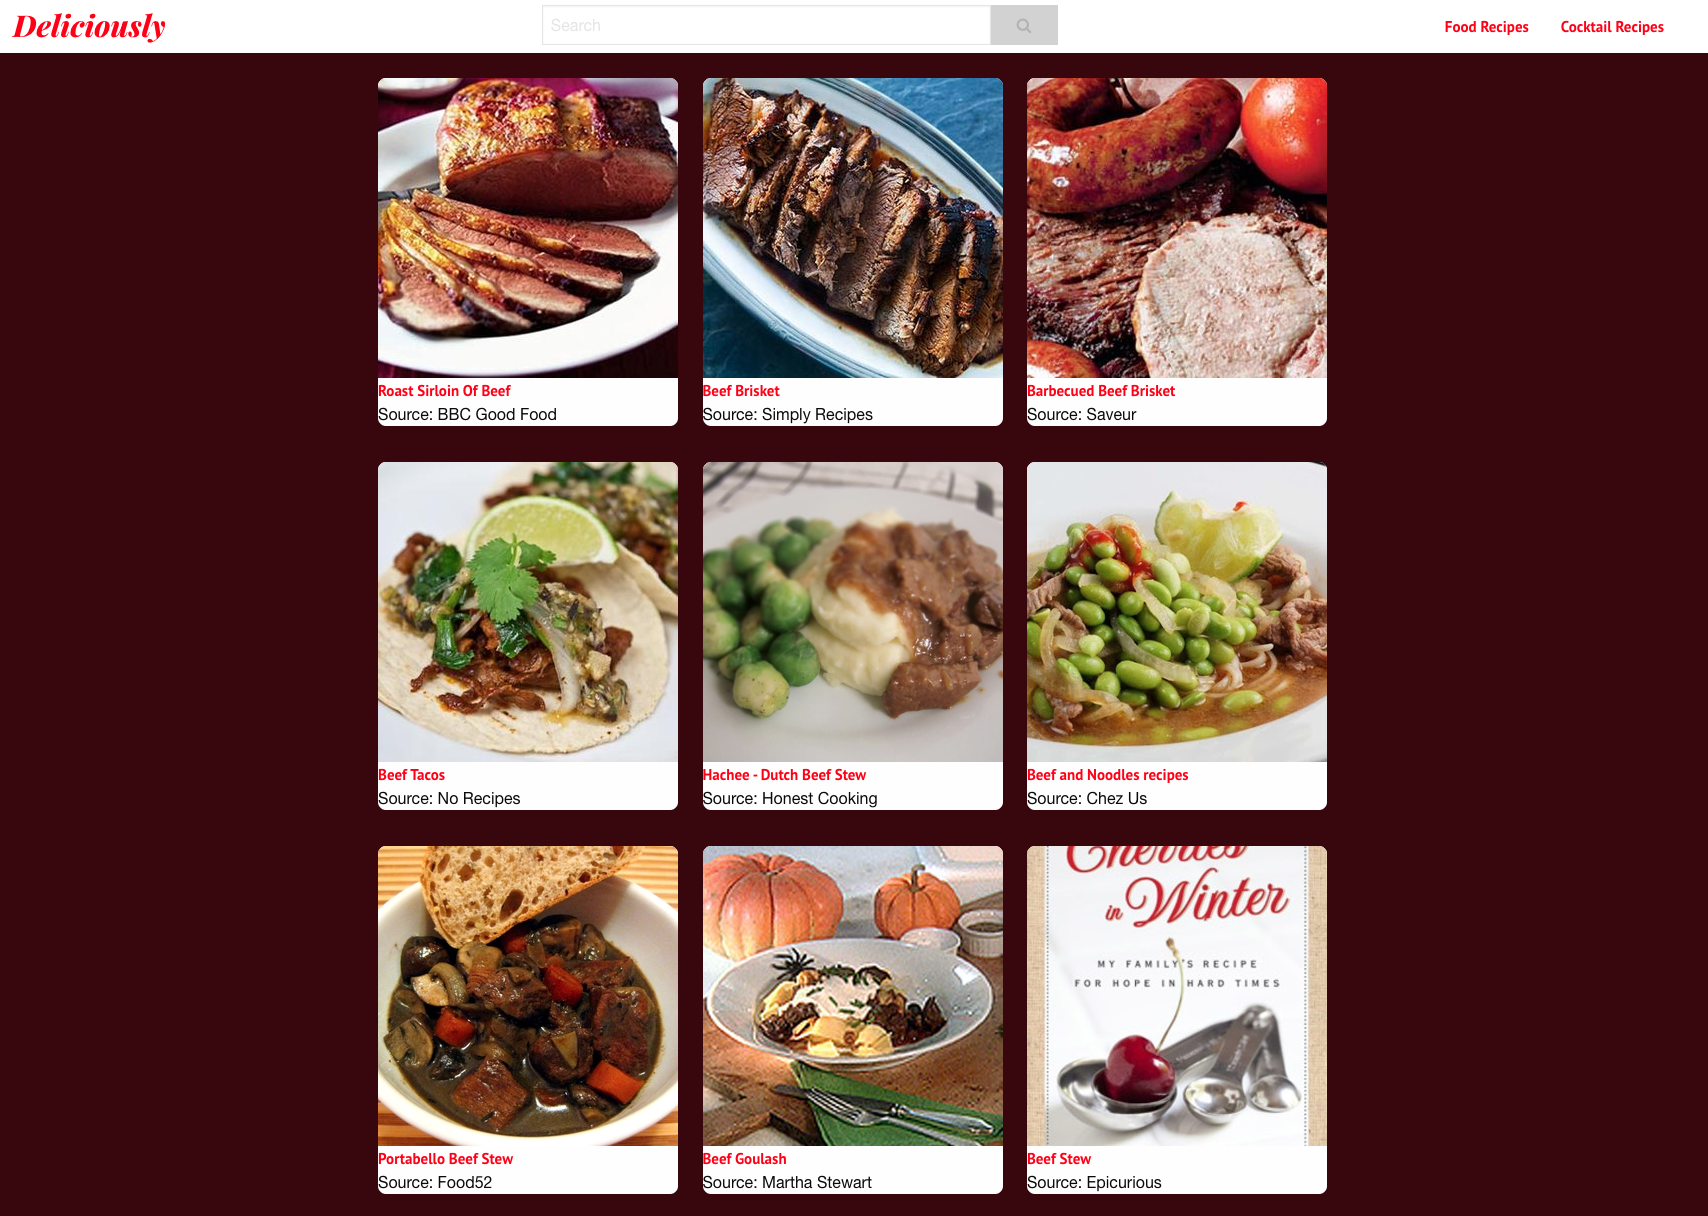
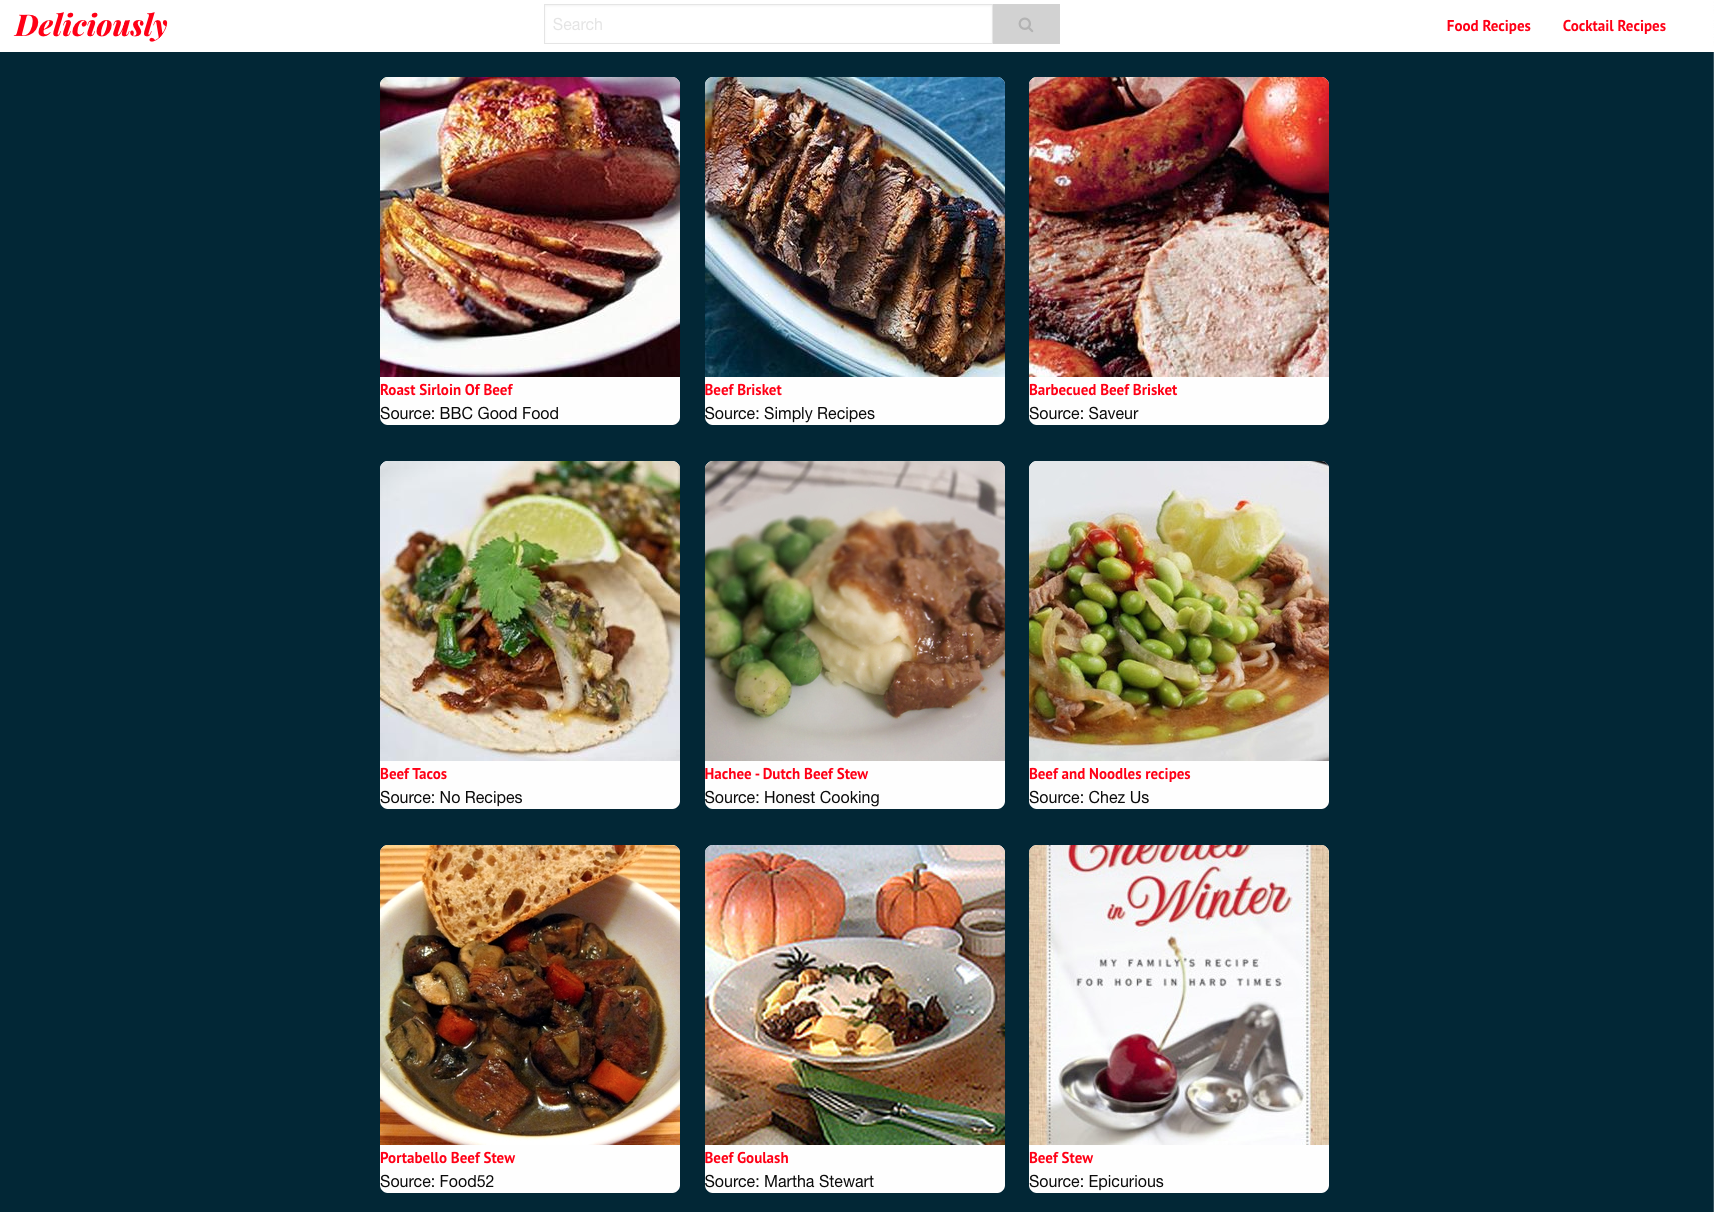
Bold readme Title and updated screenshot

diff --git a/README.md b/README.md
@@ -1,4 +1,4 @@
-**Deliciously**
+# Deliciously
 Deliciously is a website designed to search for food and cocktail recipes using simple key words. 
 
 ## How to Use
